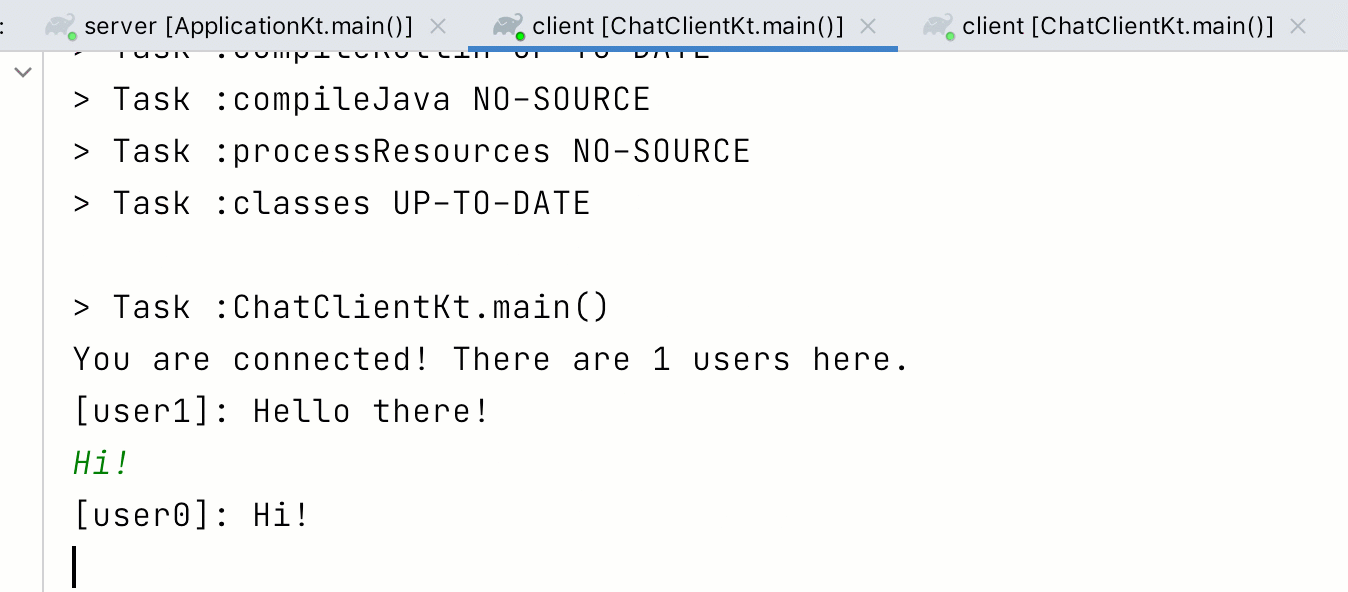
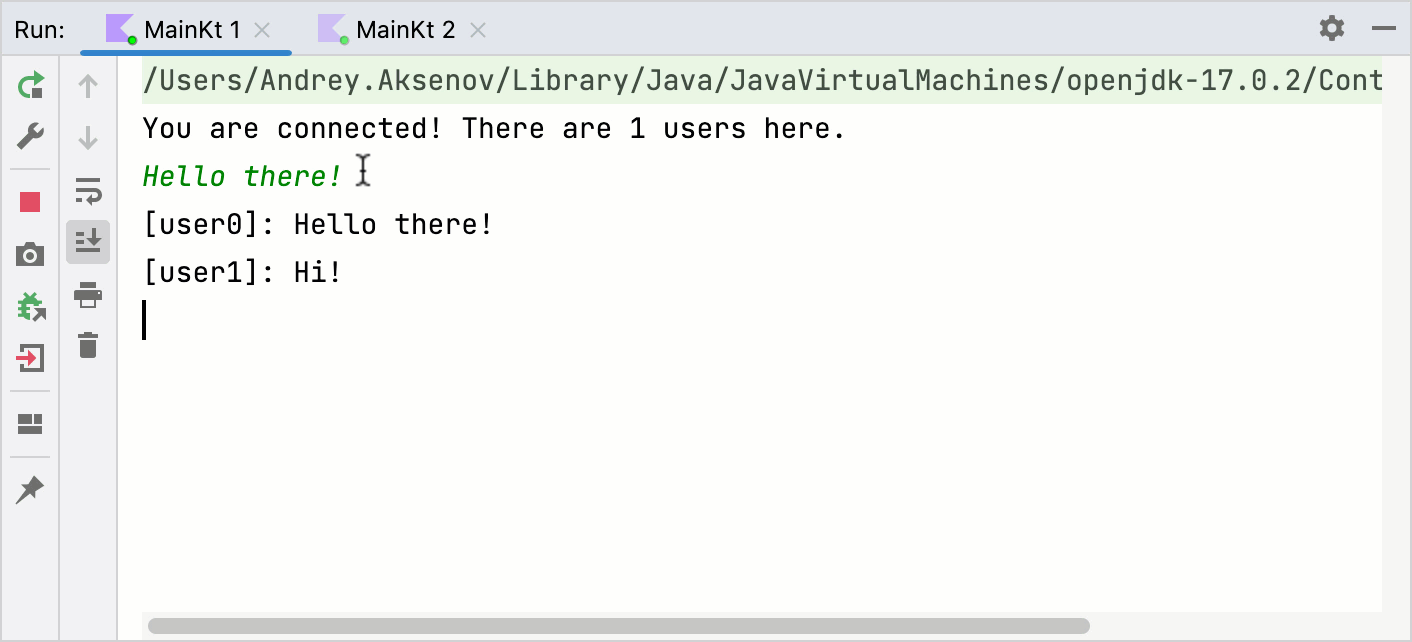
KTOR-4081 new project structure for a tutorial

diff --git a/topics/getting_started_ktor_client_chat.md b/topics/getting_started_ktor_client_chat.md
@@ -9,7 +9,7 @@
 Learn how to create a client chat application that uses WebSockets.
 </excerpt>
 
-In this tutorial, we will learn how to create a client chat application that uses WebSockets. The client application will allow users to join a common chat server, send messages to other users, and see messages from other users in the terminal.
+In this tutorial, you will learn how to create a client chat application that uses WebSockets. The client application will allow users to join a common chat server, send messages to other users, and see messages from other users in the terminal.
 
 To learn how to create a chat server, see the [](creating_web_socket_chat.md) tutorial.
 
@@ -22,8 +22,7 @@ To create a WebSocket chat client, we need to create a new project first. [Open 
 the steps below:
 
 1. <include src="lib.xml" include-id="new_project_idea"/>
-2. In the **New Project** wizard, choose **kotlin** from the list on the left. On the right pane, specify the following settings:
-   ![Kotlin Project Settings](tutorial_websockets_client_new_project.png){width="706"}
+2. In the **New Project** wizard, choose **Kotlin Multiplatform** from the list on the left. On the right pane, specify the following settings:
    
    <include src="getting_started_ktor_client.xml" include-id="kotlin_app_settings"/>
 
@@ -33,34 +32,9 @@ the steps below:
 
 
 ## Configure the build script {id="build-script"}
-The next thing we need is to configure the build script: 
-- Apply the `application` plugin to be able to start our application using Gradle.
-- Add the `JavaExec` task to correctly handle a user's input when the application is running using Gradle.
+The next thing we need is to configure the build script:
 - Add dependencies required for a Ktor client.
-
-### Apply the Application plugin {id="apply-plugin"}
-Open the `build.gradle.kts` file and follow the steps below:
-1. Apply the application plugin in the `plugins` block:
-   ```kotlin
-   plugins {
-       application
-   }
-   ```
-2. Specify the application's main class:
-   ```kotlin
-   ```
-   {src="snippets/tutorial-websockets-client/build.gradle.kts" lines="8-10"}
-   
-   We'll create the `Application.kt` file later.
-
-### Add the JavaExec task {id="java-exec"}
-
-In the `build.gradle.kts` file, add the `JavaExec` task and specify `standardInput` as show below:
-
-```kotlin
-```
-{src="snippets/tutorial-websockets-client/build.gradle.kts" lines="17-19"}
-
+- Add the `JavaExec` task to correctly handle a user's input when the application is running using Gradle.
 
 ### Add client dependencies {id="add-client-dependencies"}
 
@@ -72,26 +46,30 @@ In the `build.gradle.kts` file, add the `JavaExec` task and specify `standardInp
 
    <include src="getting_started_ktor_client.xml" include-id="eap-note"/>
 
-3. Open the `build.gradle.kts` file and add the following artifacts to the `dependencies` block:
+2. Open the `build.gradle.kts` file and add the following artifacts to the `dependencies` block:
    ```kotlin
    ```
    {src="snippets/tutorial-websockets-client/build.gradle.kts" lines="1-2,21-25"}
-4. Click the **Load Gradle Changes** icon in the top right corner of the `build.gradle.kts` file to install the dependencies.
 
 
-## Create the Application.kt file {id="create-kotlin-file"}
-Now we are ready to create a client.
+### Add the JavaExec task {id="java-exec"}
 
-1. Invoke the [Project view](https://www.jetbrains.com/help/idea/project-tool-window.html)and expand the `src/main` folder.
-2. Right-click the `kotlin` folder and choose **New | Kotlin Class/File**.
-3. Specify a file name in the invoked popup and press **Enter** to create a Kotlin file.
-   ![Application.kt](client_get_started_new_kotlin_file.png){width="362"}
+In the `build.gradle.kts` file, add the `JavaExec` task and specify `standardInput` as show below:
+
+```kotlin
+```
+{src="snippets/tutorial-websockets-client/build.gradle.kts" lines="17-19"}
+
+Then, click the **Load Gradle Changes** icon in the top right corner of the `build.gradle.kts` file to install the dependencies.
+
 
 ## Create the chat client {id="create-chat-client"}
 
+Now we can add a client's code to the `src/main/kotlin/Main.kt` file.
+
 ### First implementation {id="first-implementation"}
 
-After [creating a Kotlin file](#create-kotlin-file), we can add an implementation of sending and receiving messages:
+Open the `src/main/kotlin/Main.kt` file and add the following code for sending and receiving messages:
 
 ```kotlin
 import io.ktor.client.*
@@ -124,31 +102,26 @@ fun main() {
 
 Here, we first create an `HttpClient` and set up Ktor's `WebSocket` plugin (the analog of installing the `WebSocket` plugin in our server application's module in an earlier chapter). Functions in Ktor responsible for making network calls use the suspension mechanism from Kotlin's coroutines, so we wrap our network-related code in a `runBlocking` block. Inside the WebSocket handler, we once again process incoming messages and send outgoing messages: we ignore frames which do not contain text, read incoming text, and send the user input to the server.
 
-However, this "straightforward" implementation actually contains an issue that prevents it from being used as a proper chat client: when invoking `readLine()`, our program waits until the user enters a message. During this time, we can't see any messages which have been typed out by other users. Likewise, because we invoke `readLine()` after every received message, we would only ever see one new message at a time.
+However, this "straightforward" implementation actually contains an issue that prevents it from being used as a proper chat client: when invoking `readLine()`, our program waits until the user enters a message. During this time, we can't see any messages which have been typed out by other users. Likewise, because we invoke `readLine()` after every received message, we would only ever see one new message at a time. Let's address this issue, and build a better solution!
 
-You can also validate this for yourself: with the server process running, start two instances of the chat client by clicking play icon in the gutter in `Application.kt`. Use the tabs in the Run tool window to navigate between the two client instances and send some messages back and forth.
-
-![Run tool window](image-20201111191815343.png){width="1207"}
-
-Let's address this issue, and build a better solution!
 
 ### Improved solution {id="improved-solution"}
 
 A better structure for our chat client would be to separate the message output and input mechanisms, allowing them to run concurrently: when new messages arrive, they are printed immediately, but our users can still start composing a new chat message at any point.
 
-We know that to output messages, we need to be able to receive them from the WebSocket's `incoming` channel, and print them to the command line. Let's add a function called `outputMessages()` to the `Application.kt` file with the following implementation for this functionality:
+We know that to output messages, we need to be able to receive them from the WebSocket's `incoming` channel, and print them to the command line. Let's add a function called `outputMessages()` to the `Main.kt` file with the following implementation for this functionality:
 
 ```kotlin
 ```
-{src="snippets/tutorial-websockets-client/src/main/kotlin/Application.kt" lines="24-33"}
+{src="snippets/tutorial-websockets-client/src/main/kotlin/Main.kt" lines="24-33"}
 
 Because the function operates in the context of a `DefaultClientWebSocketSession`, we define `outputMessages()` as an extension function on the type. We also don't forget to add the `suspend` modifier – because iterating over the `incoming` channel suspends the coroutine while no new message is available.
 
-Next, let's define a second function which allows the user to input text. Add a function called `inputMessages()` in `Application.kt` with the following implementation
+Next, let's define a second function which allows the user to input text. Add a function called `inputMessages()` in `Main.kt` with the following implementation
 
 ```kotlin
 ```
-{src="snippets/tutorial-websockets-client/src/main/kotlin/Application.kt" lines="35-46"}
+{src="snippets/tutorial-websockets-client/src/main/kotlin/Main.kt" lines="35-46"}
 
 Once again defined as a suspending extension function on `DefaultClientWebSocketSession`, this function's only job is to read text from the command line and send it to the server or to return when the user types `exit`.
 
@@ -156,11 +129,11 @@ Where we previously had one loop which had to take care of reading input and pri
 
 ### Wire it together
 
-Let's make use of our two new functions! We can call them inside the body of our WebSocket handler by changing the code of our `main()` method in `Application.kt` to the following:
+Let's make use of our two new functions! We can call them inside the body of our WebSocket handler by changing the code of our `main()` method in `Main.kt` to the following:
 
 ```kotlin
 ```
-{src="snippets/tutorial-websockets-client/src/main/kotlin/Application.kt" lines="7-22"}
+{src="snippets/tutorial-websockets-client/src/main/kotlin/Main.kt" lines="7-22"}
 
 This new implementation improves the behavior of our application: Once the connection to our chat server is established, we use the `launch` function from Kotlin's Coroutines library to launch the two long-running functions `outputMessages()` and `inputMessages()` on a new coroutine (without blocking the current thread). The launch function also returns a `Job` object for both of them, which we use to keep the program running until the user types `exit` or encounters a network error when trying to send a message. After `inputMessages()` has returned, we cancel the execution of the `outputMessages()` function, and `close` the client.
 
@@ -168,13 +141,11 @@ Until this happens, both input and output can happily happen concurrently, with 
 
 ### Let's give it a try!
 
-We have now finished implementing our WebSocket-based chat client with Kotlin and Ktor. To celebrate our success, let's give it a try! With the chat server running, start some instances of the chat client using the play button, and talk to yourself! Even if you send multiple messages right after each other, they should be correctly displayed on all connected clients.
+We have now finished implementing our WebSocket-based chat client with Kotlin and Ktor. To celebrate our success, let's give it a try! With the chat server running, start two instances of the chat client. You can do this by creating two identical **MainKt** [run configurations](https://www.jetbrains.com/help/idea/run-debug-configuration.html), which can be run separately. Even if you send multiple messages right after each other, they should be correctly displayed on all connected clients.
 
-You might still notice some smaller usability issues caused by the limitations of terminal input, like incoming messages overwriting messages which are currently being composed. Managing more complex terminal user interfaces is outside the scope of this tutorial, though, and as such, left as an exercise to the reader 😉.
+![App in action](app_in_action.png){animated="true" width="706"}
 
 We have included the final state of the client chat application in the [codeSnippets](https://github.com/ktorio/ktor-documentation/tree/%current-branch%/codeSnippets) project: [tutorial-websockets-client](https://github.com/ktorio/ktor-documentation/tree/%current-branch%/codeSnippets/snippets/tutorial-websockets-client).
-
-![App in action](app_in_action.png){animated="true" width="674"}
 
 That's it for this tutorial on WebSockets with Ktor – time to congratulate yourself for building a whole application! If you're looking for some inspiration of where to take this project next, as well as related materials, continue to the next section.
 

diff --git a/topics/creating_web_socket_chat.md b/topics/creating_web_socket_chat.md
@@ -17,7 +17,7 @@ Throughout this tutorial, we will implement a simple chat service, which will co
 - The **chat server application** will accept and manage connections from our chat users, receive messages, and distribute them to all connected clients.
 - The **chat client application** will be implemented in this tutorial: [](getting_started_ktor_client_chat.md). The client application will allow users to join a common chat server, send messages to other users, and see messages from other users in the terminal.
 
-![App in action](app_in_action.png){animated="true" width="674"}
+![App in action](app_in_action.png){animated="true" width="706"}
 
 For both parts of the application, we will make use of Ktor's support for [WebSockets](websocket.md). Because Ktor is both a server-side and client-side framework, we will be able to reuse the knowledge we acquire building the chat server when it comes to building the client.
 
